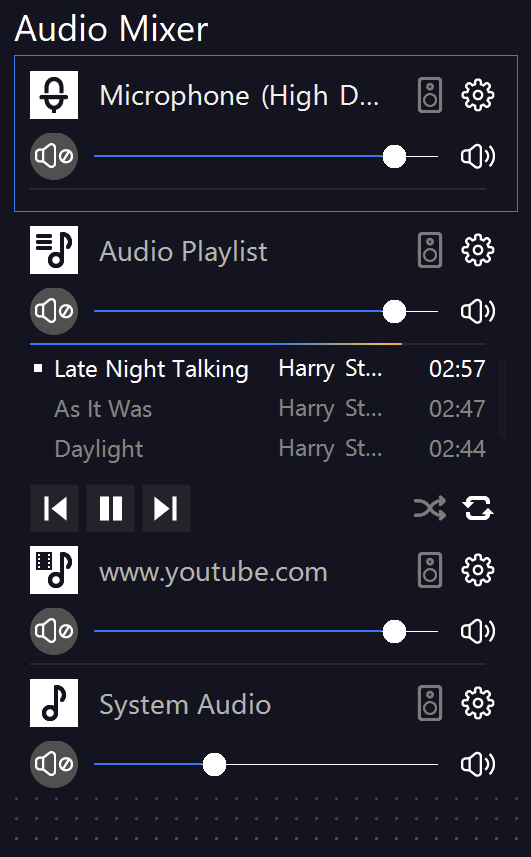
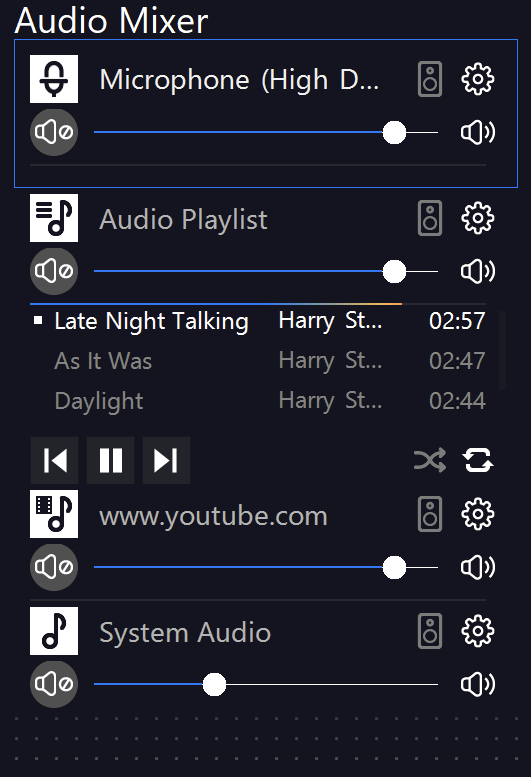
Mixer: tighten gaps between channels to ~2mm
Re-ran the gap-compression pass with KEEP=6 source pixels per gap
(was 14). At the displayed max-width of 360px, 6 source pixels works
out to roughly 2mm of visible vertical space between each channel
block — the spacing the user asked for.

Image is now 531×777 (was 857). Recalculated level meter top% so
the four animated overlays stay glued to the right channels:

  .mic   16.9%  (y=131 in 777, was 20.4% at 175 in 857)
  .music 39.0%  (y=303,       was 40.0% at 343)
  .yt    77.1%  (y=599,       was 76.4% at 655)
  .sys   92.1%  (y=716,       was 91.6% at 785)

diff --git a/index.html b/index.html
@@ -386,10 +386,10 @@ h1.hero-title .h1-promise { font-size: 1.2em; display: inline-block; line-height
 /* Audio level meters — overlays on each of the 4 channels (Mic / Audio Playlist / www.youtube.com / System Audio) */
 .mixer-level { position: absolute; left: 5.65%; width: 85.7%; height: 0.5%; min-height: 2px; background: rgba(20,20,32,.9); overflow: hidden; border-radius: 1px; pointer-events: none; }
 .mixer-level::before { content: ''; position: absolute; top: 0; bottom: 0; left: 0; background: linear-gradient(to right, #3578f3 0%, #3578f3 70%, #5fc7e0 80%, #ee9f57 92%, #ef4b4b 100%); }
-.mixer-level.mic    { top: 20.4%; }
-.mixer-level.music  { top: 40.0%; }
-.mixer-level.yt     { top: 76.4%; }
-.mixer-level.sys    { top: 91.6%; }
+.mixer-level.mic    { top: 16.9%; }
+.mixer-level.music  { top: 39.0%; }
+.mixer-level.yt     { top: 77.1%; }
+.mixer-level.sys    { top: 92.1%; }
 .mixer-level.mic::before    { animation: lvlMic   2.6s ease-in-out infinite; }
 .mixer-level.music::before  { animation: lvlMusic 2.4s ease-in-out infinite; }
 .mixer-level.yt::before     { animation: lvlYT    3.0s ease-in-out infinite; }
